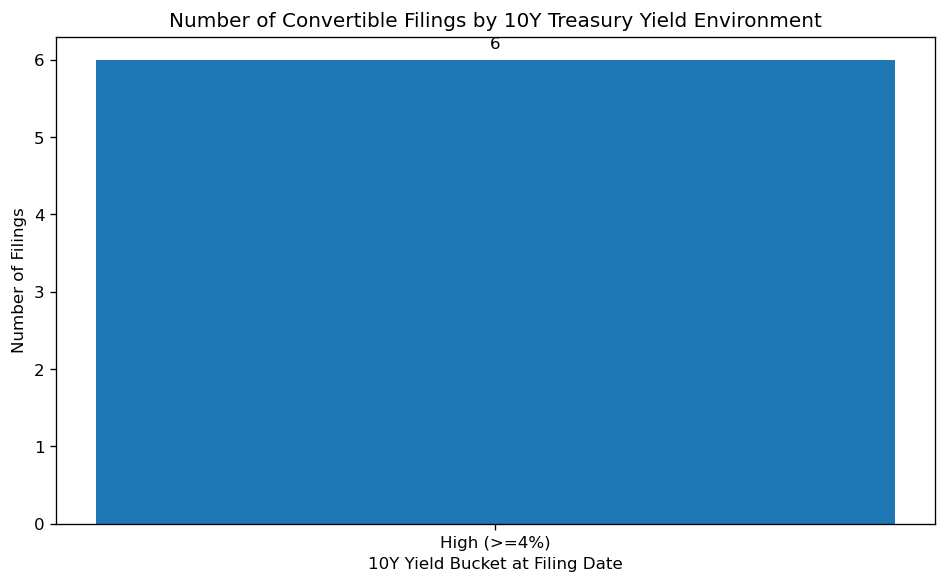
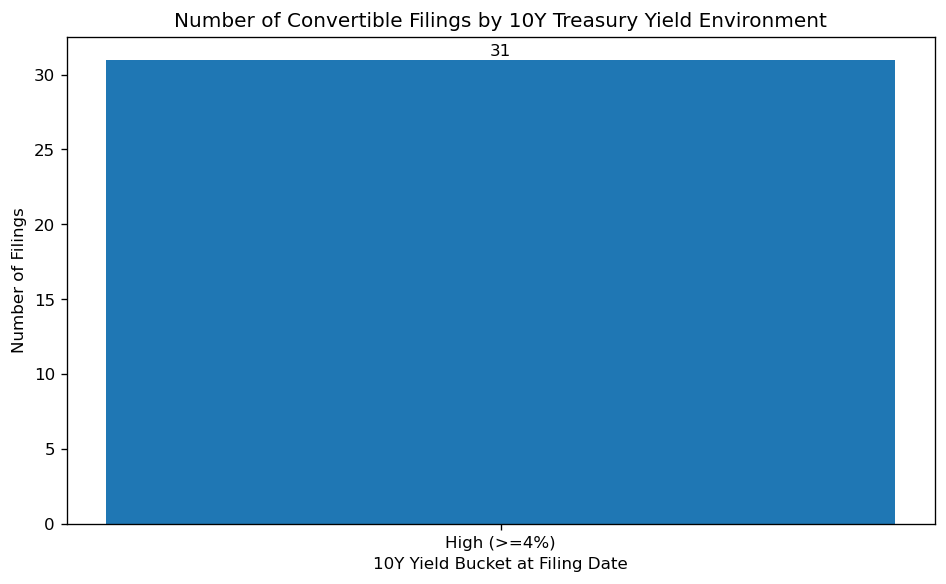
Some more changes and bug fixes

Changed region(s): [[0.0307, 0.0616, 0.1226, 0.9247], [0.1839, 0.0, 0.889, 0.0925], [0.3985, 0.8938, 0.6744, 0.9863]]

diff --git a/pipeline.py b/pipeline.py
@@ -5,7 +5,7 @@ from fred_api import fetch_treasury_10y, store_treasury_10y_to_db
 from datetime import datetime, timedelta
 
 # ========== SEC ==========
-def load_sec_data(limit: int = 3):
+def load_sec_data(limit: int = 25):
     print(f"\nFetching up to {limit} SEC filings...")
     filings = fetch_sec_filings(limit=limit)
     store_sec_filings_to_db(filings)
@@ -101,7 +101,7 @@ def load_and_store_stock_returns():
     print(f"Inserted/updated {inserted} compact stock return rows.")
 
 # ========== FRED ==========
-def load_interest_rate_data(start_years_back: int = 10, max_rows: int = 50):
+def load_interest_rate_data(start_years_back: int = 5, max_rows: int = 25):
     print(f"\nFetching Treasury 10Y data...")
     rates = fetch_treasury_10y(start_years_back=start_years_back, max_rows=max_rows)
     store_treasury_10y_to_db(rates)

diff --git a/sec_api.py b/sec_api.py
@@ -21,7 +21,7 @@ def save_offset(offset: int) -> None:
     conn.commit()
     conn.close()
 
-def fetch_sec_filings(limit: int = 200) -> List[Dict]:
+def fetch_sec_filings(limit: int = 25) -> List[Dict]:
     if not SEC_API_KEY or SEC_API_KEY.startswith("YOUR_"):
         raise ValueError("SEC_API_KEY missing in config.py")
 

diff --git a/main.py b/main.py
@@ -12,7 +12,7 @@ def main():
     create_tables()
 
     # A) Fetch SEC convertible bond filings
-    load_sec_data(limit=3)
+    load_sec_data(limit=25)
 
     # B) Fetch stock prices for companies already in DB
     load_and_store_stock_returns()
